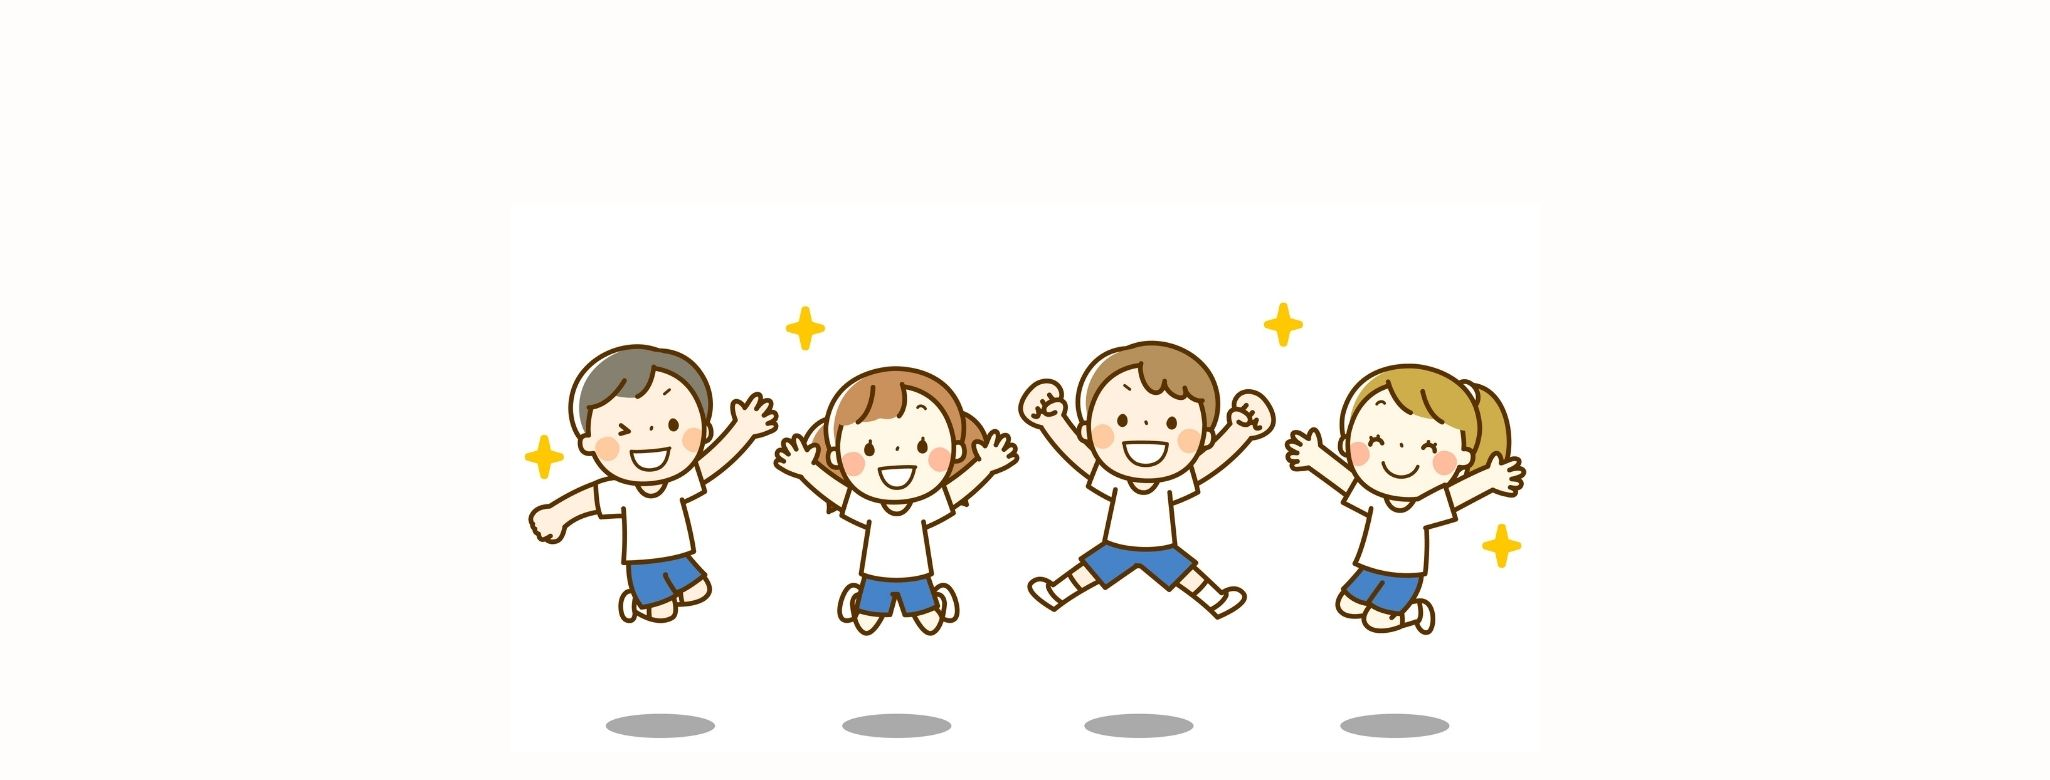
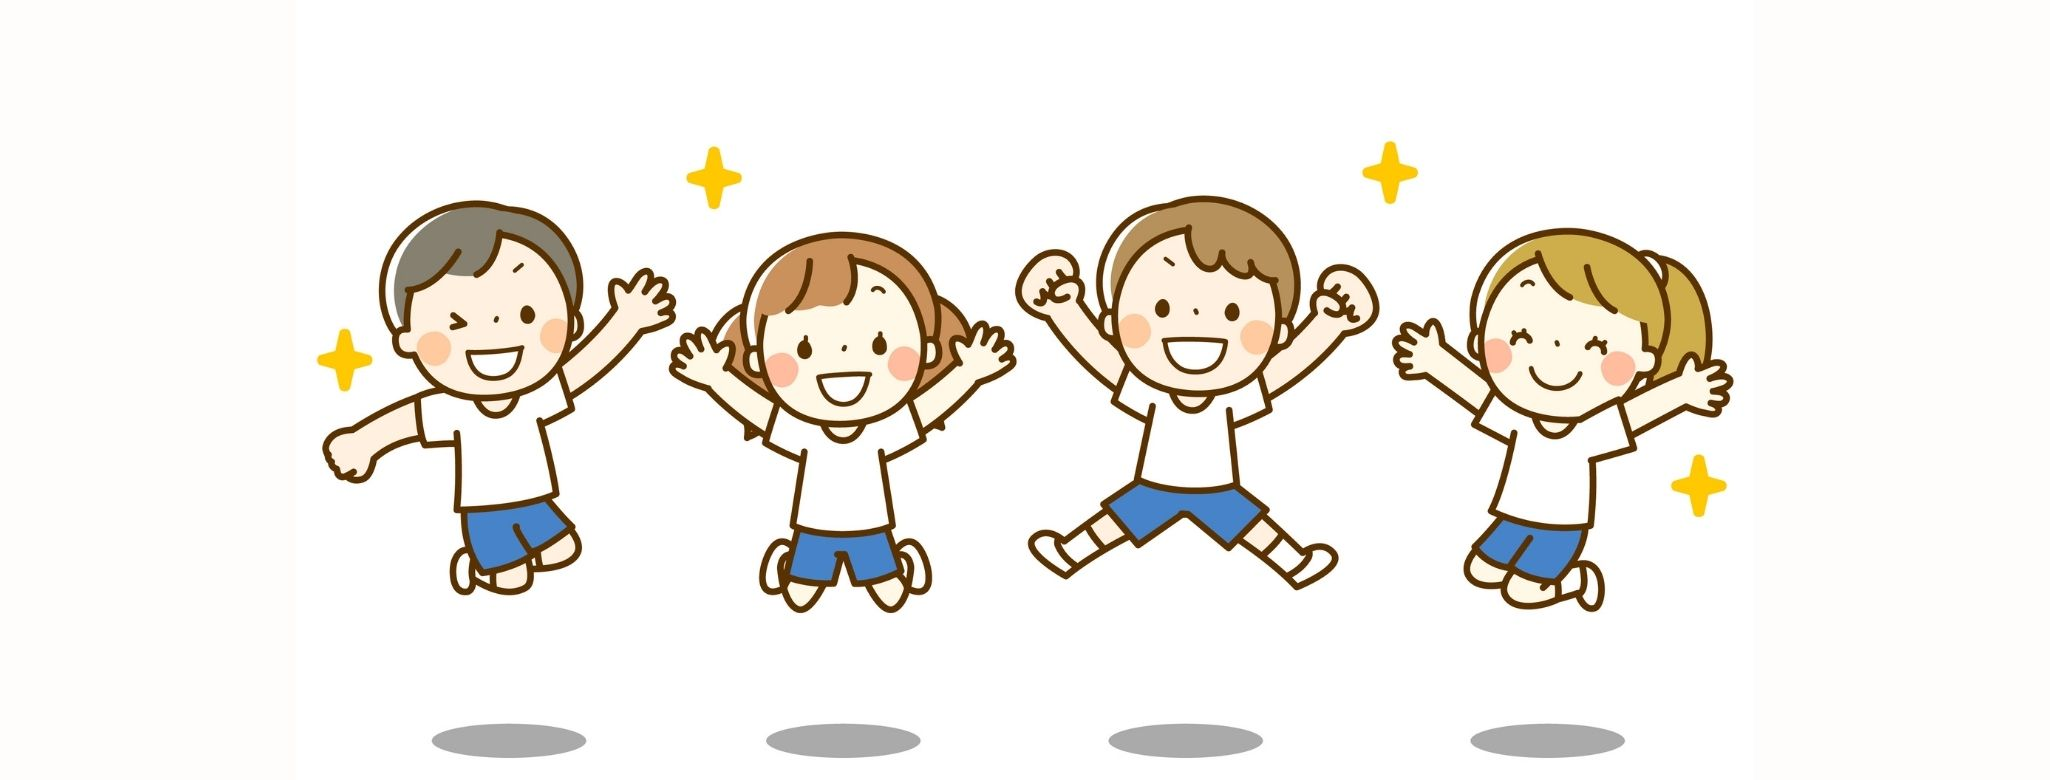
画像調整できた！

diff --git a/src/components/Hero.jsx b/src/components/Hero.jsx
@@ -62,7 +62,7 @@ export const query = graphql`
       mobile: fixed(width: 768, height: 240, quality: 80, cropFocus: CENTER) {
         ...GatsbyImageSharpFixed_withWebp
       }
-      desktop: fixed(width: 1248, height: 280, quality: 85, cropFocus: SOUTH) {
+      desktop: fixed(width: 1248, height: 350, quality: 85, cropFocus: SOUTH) {
         ...GatsbyImageSharpFixed_withWebp
       }
     }
